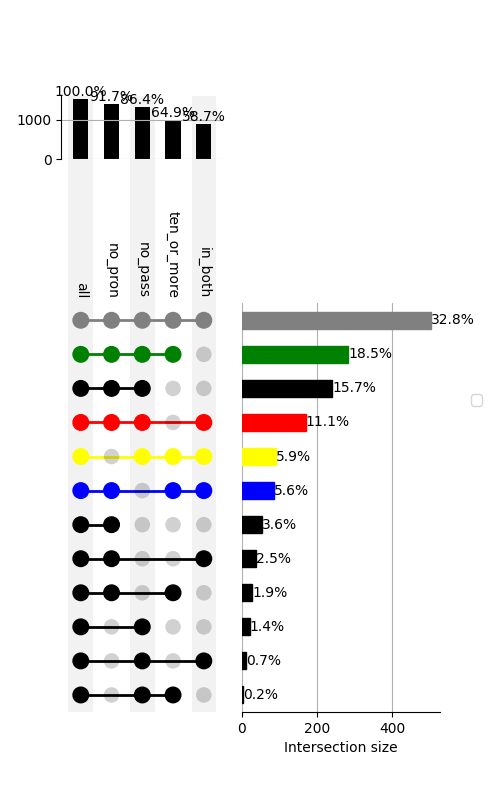
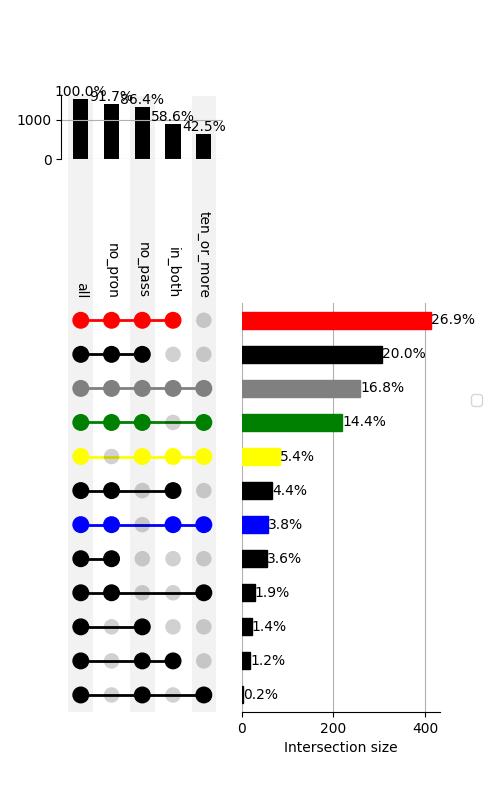
Filtre sur no_obj

diff --git a/test_filtres.py b/test_filtres.py
@@ -41,7 +41,7 @@ for subdir in main.iterdir():
 
     file_all = subdir / "VERB.csv"
     file_direct = subdir / "VERB-direct-obj.csv"
-    file_no_direct = subdir / "VERB-no-direct-obj.csv"
+    file_no_direct = subdir / "VERB-no-obj.csv"
 
 
     df_all = pd.read_csv(file_all).fillna("")
@@ -50,6 +50,10 @@ for subdir in main.iterdir():
     df_no_direct = pd.read_csv(file_no_direct).fillna("")
 
     for_stats["all"] = stats(df_all, df_all, df_all_pristine)
+
+    df_all = df_no_direct
+
+    for_stats["no_direct"] = stats(df_no_direct, df_all, df_all_pristine)
 
     lst_lemmas_all = df_all["LEMMA"].tolist()
     lst_lemmas_direct = df_direct["LEMMA"].tolist()
@@ -89,7 +93,7 @@ for subdir in main.iterdir():
     #     for k2, v2 in v.items():
     #         print(f"\t{k2}: {v2}")
 
-
+    df_all.to_csv(filtres / f"{subdir.name}-all.csv")
     df = pd.DataFrame(for_stats).T
     df.to_csv(filtres / f"{subdir.name}.csv")
 
